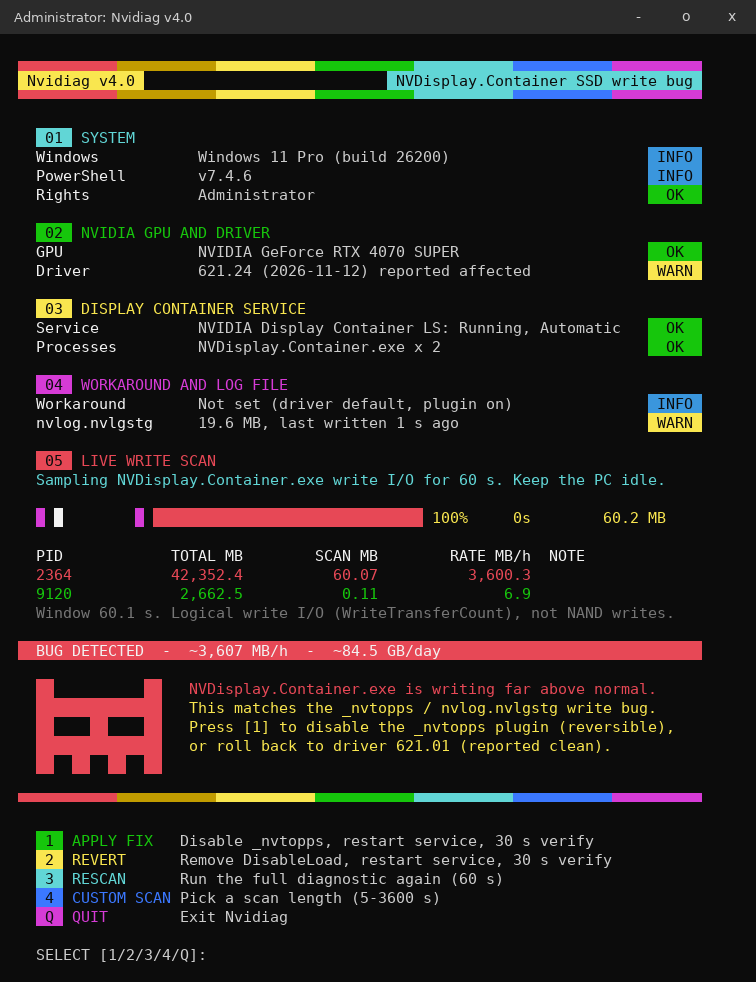
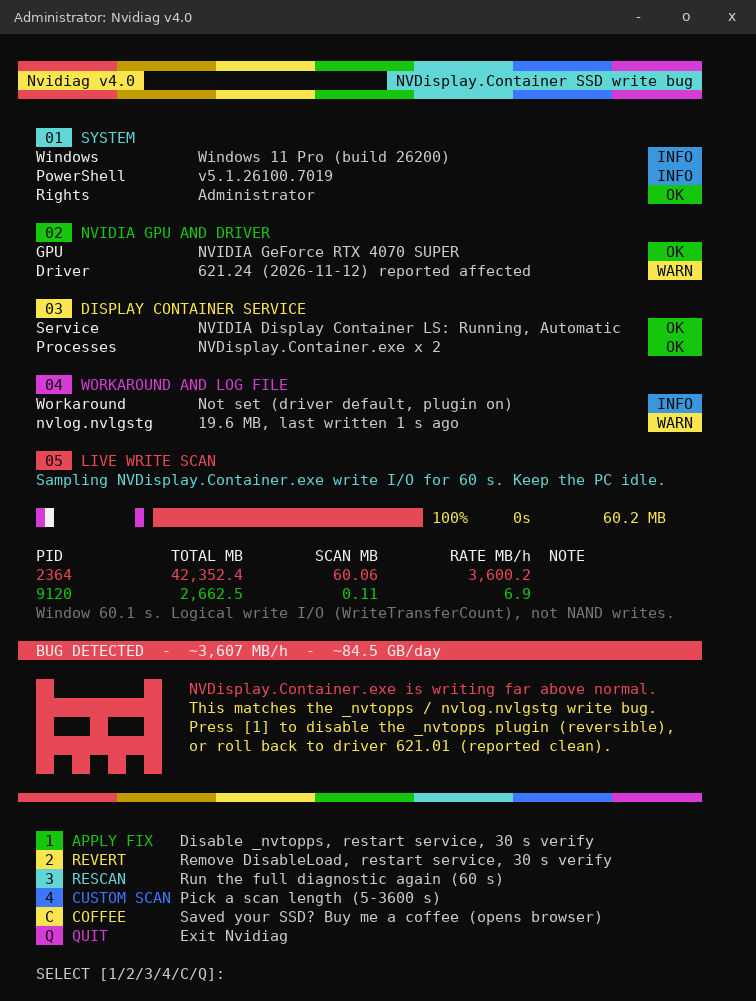
Refresh screenshots with COFFEE menu, add main menu shot, update README

diff --git a/README.md b/README.md
@@ -14,6 +14,7 @@
   <img alt="PowerShell 5.1 and 7" src="https://img.shields.io/badge/PowerShell-5.1%20%7C%207-5391FE">
   <img alt="Single file" src="https://img.shields.io/badge/install-none%2C%20one%20.cmd%20file-brightgreen">
   <img alt="MIT License" src="https://img.shields.io/badge/license-MIT-blue">
+  <a href="https://github.com/site-care/nvidiag/releases/latest"><img alt="Latest release" src="https://img.shields.io/github/v/release/site-care/nvidiag"></a>
   <a href="https://buymeacoffee.com/mchncd"><img alt="Buy me a coffee" src="https://img.shields.io/badge/Buy%20me%20a%20coffee-support-FFDD00?logo=buymeacoffee&logoColor=black"></a>
 </p>
 
@@ -27,7 +28,9 @@ Is **NVDisplay.Container.exe** showing **high disk usage** or **constant writes*
 2. **Fixes** it with the community workaround: it stops the Display Container from loading the optional `_nvtopps` plugin that writes the log (`DisableLoad = 1`), restarts the service and **verifies** the result with a new measurement.
 3. **Reverts** the change with one key press, also verified.
 
-No installer, no download of other tools, no telemetry, no network access. Read the code: it is one plain text file.
+No installer, no download of other tools, no telemetry, no network code. Read the code: it is one plain text file.
+
+<p align="center"><a href="https://github.com/site-care/nvidiag/releases/latest/download/nvidiag.cmd"><b>Download nvidiag.cmd (latest release, v4.0)</b></a></p>
 
 <p align="center">
   <img src="docs/nvidiag-bug-detected.png" alt="Nvidiag scan result: NVIDIA driver 621.24 bug detected, NVDisplay.Container.exe writing about 3.6 GB per hour" width="640">
@@ -46,6 +49,7 @@ No installer, no download of other tools, no telemetry, no network access. Read 
 - [FAQ](#faq)
 - [Compatibility](#compatibility)
 - [Sources](#sources)
+- [Support the project](#support-the-project)
 - [Disclaimer and license](#disclaimer)
 
 ## The bug: NVIDIA Display Container rewrites nvlog.nvlgstg
@@ -72,7 +76,7 @@ Nvidiag checks all of this for you in about a minute.
 
 ## Quick start
 
-1. **Download** [`nvidiag.cmd`](nvidiag.cmd) (open it on GitHub and press "Download raw file"), or download the repository as ZIP and extract it.
+1. **Download** [`nvidiag.cmd`](https://github.com/site-care/nvidiag/releases/latest/download/nvidiag.cmd) from the [latest release](https://github.com/site-care/nvidiag/releases/latest) (currently v4.0). Alternatively clone the repository: `git clone https://github.com/site-care/nvidiag.git`.
 2. **Double-click** `nvidiag.cmd`.
 3. Accept the **UAC prompt** (Administrator rights are needed to read the service state and to change the registry).
 4. Keep the PC idle while the 60 second scan runs.
@@ -109,7 +113,12 @@ Nvidiag checks all of this for you in about a minute.
 | `2` | Revert: remove `DisableLoad` (and the `_nvtopps` key if it is empty), restart the service, run a 30 s verification scan |
 | `3` | Run the full diagnostic again |
 | `4` | Custom scan length, 5 to 3600 seconds |
-| `Q` | Quit |
+| `C` | Coffee: opens <https://buymeacoffee.com/mchncd> in your default browser, if you want to support the project |
+| `Q` | Quit (shows a one line support link before exiting) |
+
+<p align="center">
+  <img src="docs/nvidiag-main-menu.png" alt="Nvidiag main menu: apply fix, revert, rescan, custom scan, coffee, quit" width="640">
+</p>
 
 <p align="center">
   <img src="docs/nvidiag-apply-fix.png" alt="Nvidiag applying the _nvtopps DisableLoad fix and restarting NVIDIA Display Container LS" width="640"><br><br>
@@ -199,7 +208,7 @@ Some PCs are not affected. The bug also grows with uptime, so a scan right after
 Nvidiag reads `WriteTransferCount` per process, the same counter Task Manager shows as "I/O write bytes". It counts what the process asks Windows to write, not what lands on the NAND flash. In the original report this counter and the SSD's own counter matched well (515 MB process I/O vs 270 MB total drive writes in 5 minutes).
 
 **Does Nvidiag send any data anywhere?**
-No. It has no network code at all.
+No. It has no network code and sends nothing. The only link it can open is the optional `C` (coffee) menu item, which hands <https://buymeacoffee.com/mchncd> to your default browser when you press it.
 
 **Does it work with NVIDIA Studio drivers, laptops, or Quadro / RTX professional cards?**
 It works on any system where the NVIDIA Display Container LS service exists. The bug reports so far are about GeForce Game Ready 621.14 and 621.24.
@@ -227,13 +236,13 @@ It works on any system where the NVIDIA Display Container LS service exists. The
 
 Bug reports are welcome. Please include a screenshot of the full Nvidiag scan, your GPU, driver version and Windows build. If NVIDIA releases a fixed driver, open an issue so the driver list can be updated.
 
-<a id="disclaimer"></a>
 ## Support the project
 
 If Nvidiag saved your SSD from a few terabytes of pointless writes, you can say thanks with a coffee:
 
 <a href="https://buymeacoffee.com/mchncd"><img src="https://img.buymeacoffee.com/button-api/?text=Buy%20me%20a%20coffee&emoji=%E2%98%95&slug=mchncd&button_colour=FFDD00&font_colour=000000&font_family=Bree&outline_colour=000000&coffee_colour=ffffff" alt="Buy me a coffee" height="45"></a>
 
+<a id="disclaimer"></a>
 ## Disclaimer
 
 Nvidiag is an independent community project. It is **not affiliated with, endorsed by or supported by NVIDIA Corporation**. NVIDIA, GeForce and related names are trademarks of NVIDIA Corporation. The workaround changes one registry value of an NVIDIA service; use it at your own risk and revert it once NVIDIA ships a fixed driver.
